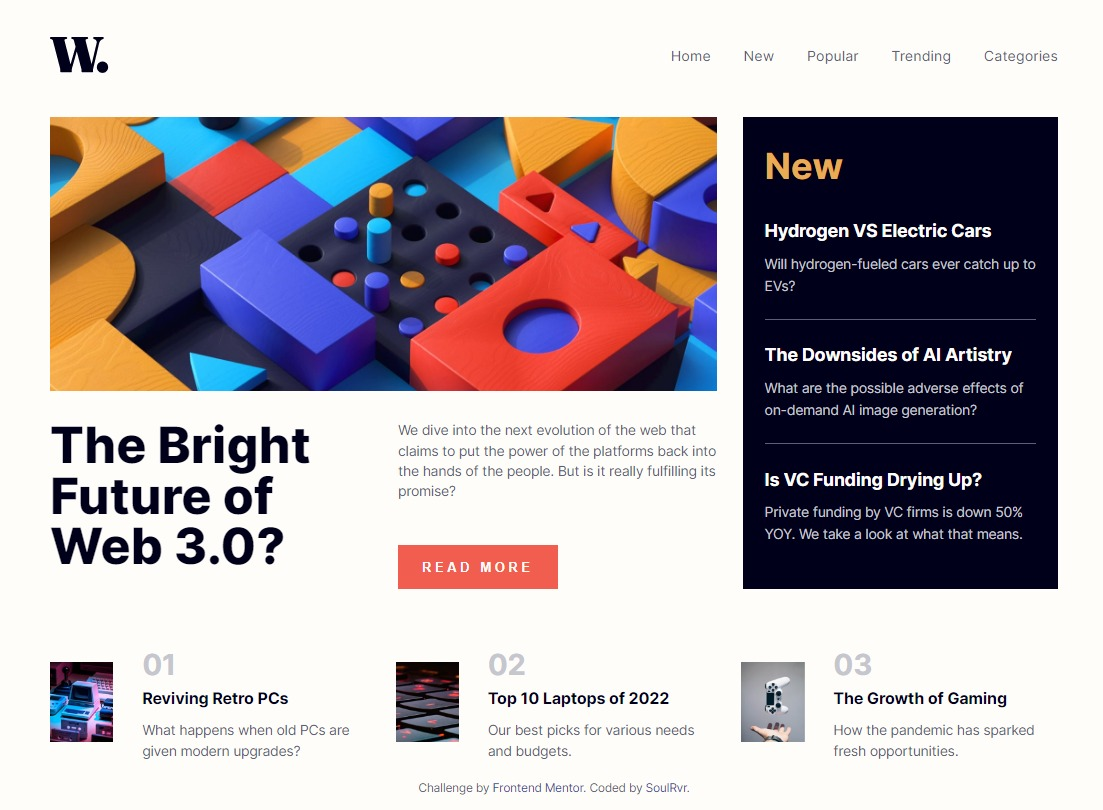
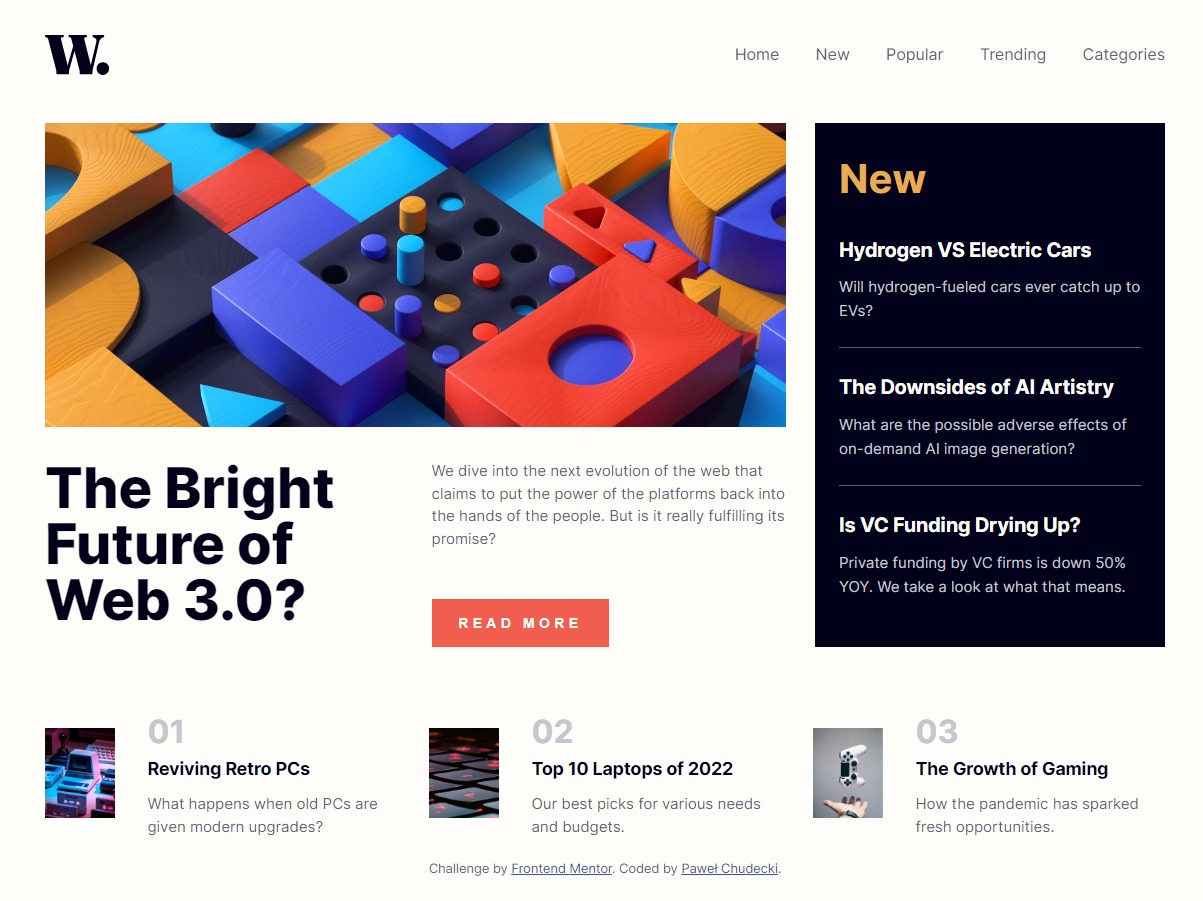
nav position fix, footer update

diff --git a/style.css b/style.css
@@ -47,9 +47,6 @@ header {
   align-items: center;
   margin: 3rem 0;
 }
-nav {
-  position: relative;
-}
 .menuIcon:hover,
 .menuIconClose:hover {
   cursor: pointer;
@@ -296,12 +293,14 @@ footer a:hover {
 .display {
   display: block;
 }
-.ulAnim {
-  display: block;
-  width: 10px;
-  animation-name: ulBackground;
-  animation-duration: 1s;
-  animation-fill-mode: forwards;
+@media screen and (max-width: 560px) {
+  .ulAnim {
+    display: block;
+    width: 10px;
+    animation-name: ulBackground;
+    animation-duration: 1s;
+    animation-fill-mode: forwards;
+  }
 }
 .bcgOverlayAnim {
   display: block;

diff --git a/index.html b/index.html
@@ -126,7 +126,9 @@
         <a href="https://www.frontendmentor.io?ref=challenge" target="_blank"
           >Frontend Mentor</a
         >. Coded by
-        <a href="https://www.frontendmentor.io/profile/SoulRvr29">SoulRvr</a>.
+        <a href="https://www.frontendmentor.io/profile/SoulRvr29"
+          >Paweł Chudecki</a
+        >.
       </footer>
     </div>
     <script src="script.js"></script>
